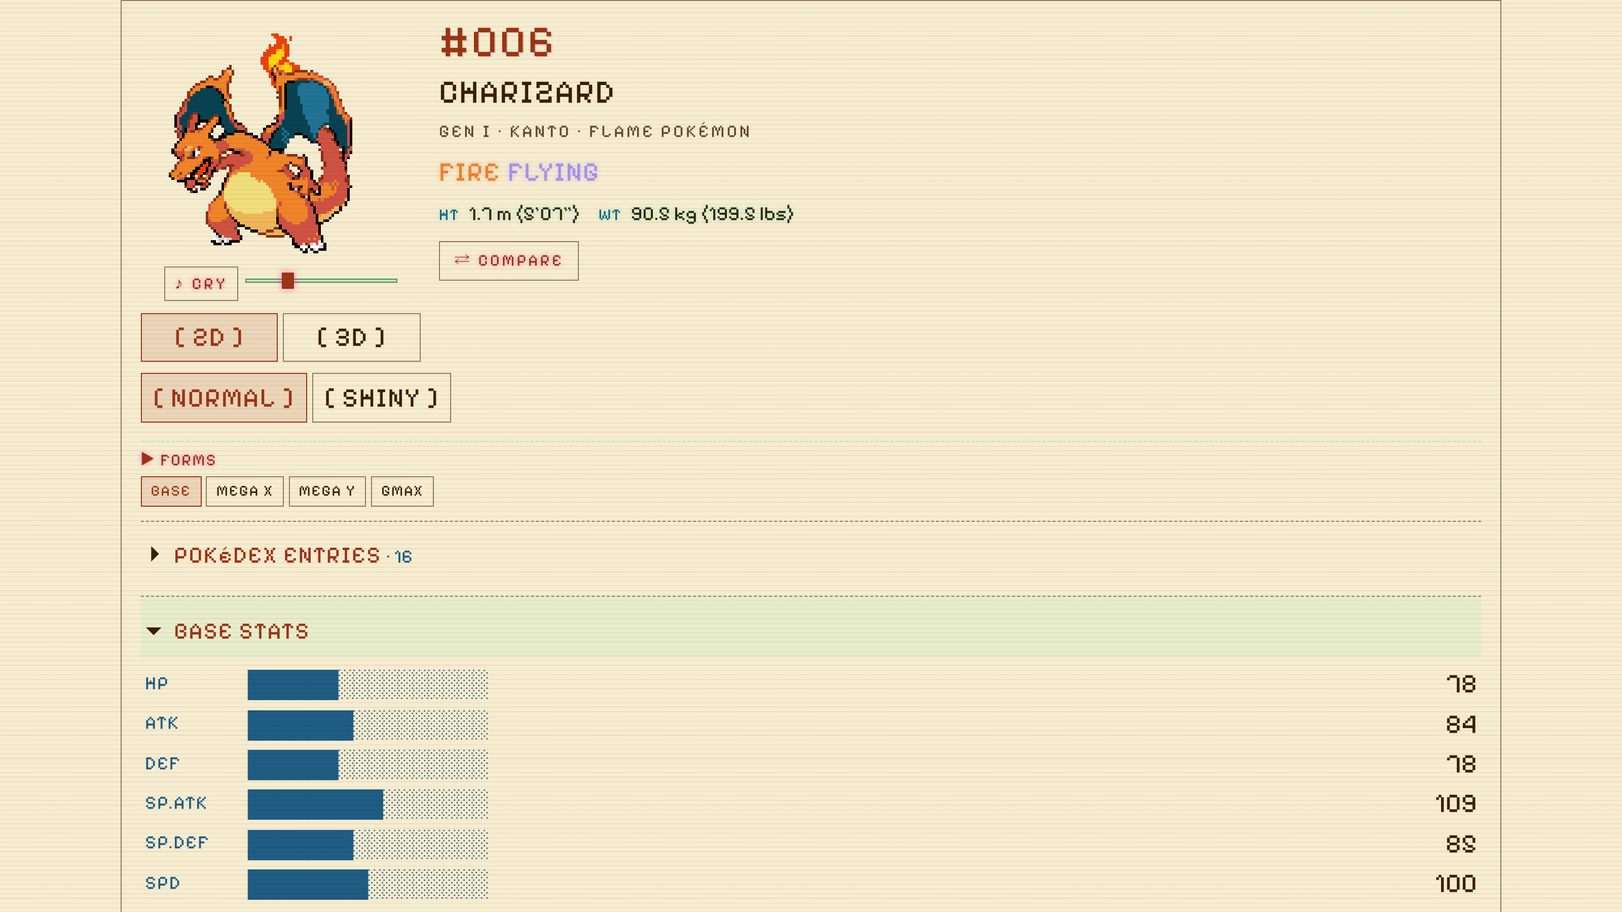
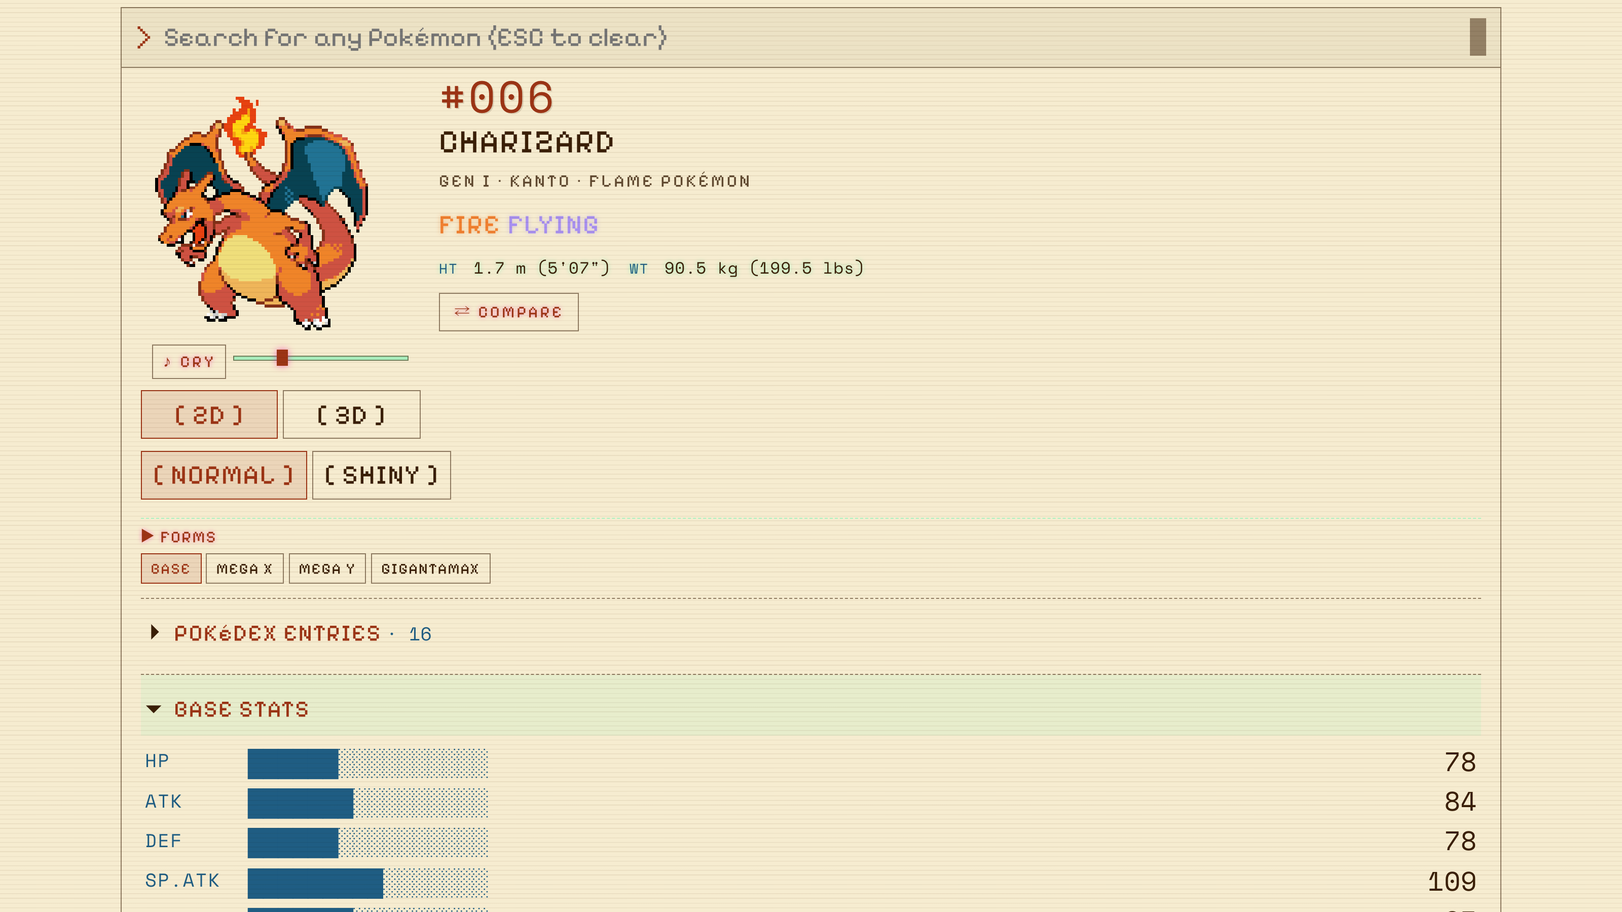
PMX: Refresh the README and add the code rules to `CLAUDE.md` (#9)
* PMX: Bring the README's feature list in line with the app

- the Trainers and Teams tabs and the card's "How to obtain" section had
  no mention anywhere — the intro still described a Pokédex only
- the species count said 1,022 — PokeAPI's `/pokemon-species` reports
  1,025, and the dex status line shows `1025 / 1025 entries`
- the share link was documented as `?p=charizard`; it copies the current
  URL, now `/pokedex/charizard`, and `HomeRedirect` keeps old links alive
- page sizes read 30/60/120/all — `PAGE_SIZE_OPTIONS` is 25/50/100/200/all
- the sprite bullets described a flat 2D default, official-artwork
  shinies, and Pokémon HOME fallbacks — `cardSprites` animates both views,
  keeps official artwork as the last 3D resort, and has no HOME source, so
  the HOME credit goes too
- the tech stack said Vite 6 (it is 8), named one of the two loaded fonts,
  and left out `wouter`
- the obtain data's PokemonDB and Bulbapedia sources get a data-source
  line and a credit, from the header of `scripts/build-obtain-data.mts`
- the screenshot steps failed as written — `bun scripts/screenshot.mjs`
  throws "Cannot find package 'playwright'" because it is not a
  dependency; `bun add --no-save playwright` fixes that without touching
  `package.json`

* PMX: Retake the README screenshots against the current UI

- all 7 were captured 2026-05-13, before the POKÉDEX / TRAINERS / TEAMS
  tabs, the card's back button, and the `GIGANTAMAX` form label existed
[…]

diff --git a/src/__tests__/PokemonCard.test.tsx b/src/__tests__/PokemonCard.test.tsx
@@ -166,12 +166,7 @@ describe('PokemonCard', () => {
     expect(screen.getAllByText('ghost').length).toBeGreaterThan(0);
   });
 
-  // Quarantined: the card's 2D default for Gen 6+ is now the animated Showdown
-  // GIF (constructed from id), not the fixture's `front_default`. These two
-  // assertions still describe the original sprite ladder, so they stay in the
-  // file as a pointer for whoever updates the sprite spec — they just don't run
-  // until then. See `cardSprites` in `sprites.ts`.
-  it.skip('renders the static flat pixel sprite by default (2D, Gen 6+)', () => {
+  it('renders the animated Showdown GIF by default (2D, Gen 6+)', () => {
     render(
       <PokemonCard
         pokemon={pokemon}
@@ -186,10 +181,13 @@ describe('PokemonCard', () => {
         onFormChange={() => {}}
       />,
     );
-    expect(screen.getByRole('img')).toHaveAttribute('src', 'normal.png');
+    expect(screen.getByRole('img', { name: 'dragapult' })).toHaveAttribute(
+      'src',
+      expect.stringContaining('other/showdown/887.gif'),
+    );
   });
 
-  it.skip('renders the static shiny sprite by default when shiny is true', () => {
+  it('renders the animated shiny Showdown GIF when shiny is true', () => {
     render(
       <PokemonCard
         pokemon={pokemon}
@@ -204,7 +202,10 @@ describe('PokemonCard', () => {
         onFormChange={() => {}}
       />,
     );
-    expect(screen.getByRole('img')).toHaveAttribute('src', 'shiny.png');
+    expect(screen.getByRole('img', { name: 'dragapult' })).toHaveAttribute(
+      'src',
+      expect.stringContaining('other/showdown/shiny/887.gif'),
+    );
   });
 
   it('renders the evolution chain', () => {

diff --git a/CLAUDE.md b/CLAUDE.md
@@ -1,79 +1,95 @@
-# Guardrails for this repo (CLAUDE.md, AGENTS.md)
+# CLAUDE.md
 
-Short, opinionated rules. When something here conflicts with a default behavior, **this file wins**.
+Pokemax is a retro CRT-styled Pokédex: a Vite + React 19 + TypeScript single-page app with wouter routing, deployed to GitHub Pages. Species, moves and sprites come live from PokeAPI, competitive sets from Smogon, and the how-to-obtain data is prebuilt into `public/obtain/`.
 
-## Git workflow
+## Workflow
 
-### Do
-- **Default to `main`.** Commit and push directly to `main` after every discrete change — that's still the path for ordinary work.
-- One logical change = one commit. Finish the change → `git add <specific files>` → `git commit` → `git push origin main` → move on.
-- **Branch and open a PR when the user asks for one.** Branch off `main`, keep one-logical-change-per-commit inside the branch, then `gh pr create --base main`.
-- Prefer one branch over several when the changes touch the same files — parallel branches that rewrite the same file just conflict.
-- Write commit messages that explain **why**, not just what.
-- Follow the `commit-format` skill (`.claude/skills/commit-format/SKILL.md`) for commit subject/body/backtick rules, including the zero-AI-attribution rule.
-- Follow the `create-pull-request` skill (`.claude/skills/create-pull-request/SKILL.md`) for every PR title and body — it owns the section order, bullet style, and the same zero-AI-attribution rule.
+- Do not commit anything until I tell you to. Finishing a change is not permission to commit it.
+- Do not push anything until I tell you to. Once I have told you to commit on a branch that already tracks a remote, push it in the same step, don't ask again.
+- Do not merge anything until I tell you to.
+- Do not create a PR until I tell you to.
 
-### Don't
-- Don't open a PR for routine work the user didn't ask to review — branches are permitted, not the default.
-- Don't bundle unrelated changes into one commit "to save time" — the user explicitly wants tight, change-per-commit history.
-- Don't pause to confirm the push each time. Standing authorization is granted for `git push origin main` in this repo.
-- Don't run `git push --force`, `git reset --hard`, or anything destructive without explicit per-action approval.
-- Don't append `Co-Authored-By: Claude` (or any AI/agent attribution) to commits. See the `commit-format` skill — zero AI mentions anywhere in the message.
+## Tooling
+
+- All scripts run through Bun (`bun install`, `bun run …`). Never invoke npm or yarn.
+- Pin every dependency to an exact version, with no `^` or `~`. The root `bunfig.toml` enforces this with `exact = true`. Workspace siblings are the one exception: they use `workspace:*`.
+- Run tests with `bun run test`, never bare `bun test`. The unit-tester skill explains why.
+- Tests are co-located: `lib/foo.ts` ↔ `lib/foo.test.ts`, `components/Foo/Foo.tsx` ↔ `components/Foo/Foo.test.tsx`.
 
 ## Imports
 
-### Do
-- Use the `@/` alias for anything under `src/` (e.g. `import { useTheme } from '@/hooks/useTheme'`).
-- Configured in `tsconfig.json`, `tsconfig.app.json`, and `vite.config.ts` (which Vitest also reads) — all three must stay in sync if the alias changes.
-
-### Don't
-- Don't use `../`-style relative imports across directories. Use `@/...` instead.
-- Don't introduce a second alias (`~/`, `#/`, etc.) — one alias is enough.
-
-## TypeScript
-
-### Do
-- Keep `strict`, `noUnusedLocals`, `noUnusedParameters`, `noFallthroughCasesInSwitch`, and `noUncheckedSideEffectImports` on. Fix the cause, not the lint.
-- Run `npx tsc -b --pretty false` before committing if you've touched types — silent green is the bar.
-- Reach for **type narrowing or type guards** to satisfy the checker. For platform-typed globals (e.g. `webkitAudioContext`), declare the real shape via an ambient declaration in `src/vite-env.d.ts` instead of asserting it at the call site.
-
-### Don't
-- Don't use TypeScript type assertions of **any** kind — no `as SomeType`, no `as unknown as`, no `as any`, no `// @ts-ignore`. Narrow the type, write a type guard, or declare the correct type. Assertions are banned outright; `as const` (a const assertion, not a cast) is fine.
-- Don't disable strict flags.
+- Never use relative paths, not even for same-directory siblings or co-located style sheets. `@/*` maps to `src/`; it is configured in `tsconfig.json`, `tsconfig.app.json` and `vite.config.ts`, which must stay in sync.
+- SCSS `@use` follows the same rule: `@use "@/styles/mixins" as *`.
 
 ## Tests
 
-### Do
-- Use `bun run test` (vitest). New components/hooks get a minimal test for default state + the main interactions. **Never** invoke `bun test` directly — that runs bun's built-in test runner, which this project does not use.
-- Use `@testing-library/react` patterns: query by role/label, drive with `userEvent`.
-- Put tests in `src/__tests__/<name>.test.{ts,tsx}`.
+- Tests live in `src/__tests__/<name>.test.{ts,tsx}`. New components and hooks get a minimal test for their default state and main interactions.
+- Use `@testing-library/react` patterns: query by role or label, drive with `userEvent`. Don't assert on CSS class names or DOM structure when a role or label query works.
+- Don't mock `localStorage` per test. `src/__tests__/setup.ts` installs an in-memory shim, because Node 22+ ships an empty experimental `localStorage` that shadows jsdom's.
 
-### Don't
-- Don't mock `localStorage` per test — `src/__tests__/setup.ts` already installs a working in-memory shim because Node 22+ ships an empty experimental `localStorage` that shadows jsdom's.
-- Don't assert on internal CSS class names or DOM structure when a role/label query works.
-- Don't "fix" the two known pre-existing `PokemonCard` sprite-source test failures unless that's the actual task — they predate recent changes and aren't owned by drive-by edits.
+## TypeScript
 
-## UI / styling
+- Always use type aliases. Never use interfaces, including in `declare global` augmentations.
+- Use type guards wherever possible, and unit test every type guard function.
+- Never use `any`. Prefer type narrowing or type guards.
+- Never cast types, and never double cast (`as any as string`).
+- If a type can't be inferred and narrowing isn't an option, use `unknown`.
+- Keep `strict`, `noUnusedLocals`, `noUnusedParameters`, `noFallthroughCasesInSwitch` and `noUncheckedSideEffectImports` on. Fix the cause, not the lint.
+- For platform-typed globals (e.g. `webkitAudioContext`), declare the real shape in `src/vite-env.d.ts` instead of working around it at the call site.
 
-### Do
-- Keep the CRT phosphor aesthetic: `--primary` (phosphor green), `--accent` (magenta), `--tertiary` (cyan), `--dim`, all defined at the top of `src/styles/crt.css`. Pull from these variables, don't hardcode hex.
-- Two fonts are loaded in `index.html`: `Pixelify Sans` (the global retro display font — logo, names, headers; fallback chain `'Pixelify Sans', 'VT323', 'Courier New', monospace`) and `Space Mono` (the `--font-body` used for small body text and stat numbers where pixel-art legibility suffers). `VT323` is only a fallback name, not a loaded import.
-- Persist user preferences in `localStorage` under the `pokemax.*` namespace (`pokemax.theme`, `pokemax.view`, `pokemax.pageSize`, etc.).
-- Light theme overrides live near the bottom of `crt.css` under `:root[data-theme="light"] ...`. Add matching overrides when introducing new tinted elements.
+## SCSS/CSS
 
-### Don't
-- Don't introduce a CSS framework (Tailwind, etc.). The whole UI is hand-rolled CSS in one file by design.
-- Don't add new font imports without dropping an old one — keep the network cost flat.
-- Don't break the `html { zoom: 1.15 }` baseline at the top of `crt.css` — it's the global "make text legible" lever.
+- Use SCSS modules (`*.module.scss`) for component styles.
+- Use the global stylesheet (`src/styles/globals.scss`) only for design tokens and true typographic primitives.
+- Layout is container-driven. The container sets width and height and positions its children, so a child moved to a different container can lay out differently there.
+- Prefer CSS grid with `gap` for spacing. Avoid margins for spacing. Flex is the second choice.
+- Avoid plain divs, meaning divs with no class or id.
+- Always use the token values from `src/styles/globals.scss` for font sizes, colors, padding, margin, gap and border radius.
+
+## UI
+
+- Keep the CRT phosphor aesthetic: `--primary` (phosphor green), `--accent` (magenta), `--tertiary` (cyan) and `--dim`, currently defined at the top of `src/styles/crt.css`. Never hardcode hex.
+- Two fonts load in `index.html`: `Pixelify Sans`, the retro display font for the logo, names and headers, and `Space Mono` (`--font-body`), for small body text and stat numbers where pixel art loses legibility. `VT323` is only a fallback name. Don't add a font import without dropping one.
+- Light theme overrides go under `:root[data-theme="light"]`. Add a matching override when introducing a new tinted element.
+- Don't break the `html { zoom: 1.15 }` baseline at the top of `crt.css`. It is the global "make text legible" lever.
+- Persist user preferences in `localStorage` under the `pokemax.*` namespace (`pokemax.theme`, `pokemax.view`, `pokemax.pageSize`, …).
+- Don't introduce a CSS framework (Tailwind, etc.).
+
+## Code style
+
+- Prefer immutable data structures and operations.
+- Prefer `reduce` over `for` loops. Never use `for/in` or `for/of`; use `Array.prototype` methods (`map`, `filter`, `reduce`, `flatMap`).
+- Prefer double-bang (`!!value`) for boolean conversion.
+- Prefer short-circuit `&&` over a ternary whose else branch is `null` or `undefined`, especially in JSX.
+  - Do: `{isActive && <Badge />}`. Don't: `{isActive ? <Badge /> : null}`.
+  - Make the condition a real boolean (`!!count && …`) so a bare `0` never renders.
+- Prefer optional chaining (`?.`), and always pair it with nullish coalescing (`??`) to supply a fallback.
+- Prefer a single object parameter over positional ones, so argument order doesn't matter. Do: `doSomething({ foo, bar })`. Don't: `doSomething(foo, bar)`.
+
+## Accessibility (WCAG AA)
+
+- Use semantic HTML before ARIA: a native `button`, never a clickable `div`. Add ARIA only to fill a gap, and never override a native role.
+- Everything must be operable by keyboard, with a visible `:focus-visible` style. Modals, drawers and menus move focus in, trap it, restore it to the trigger on close, and close on `Escape`.
+- Every control needs an accessible name:
+  - form fields get a `label`, with `aria-describedby` for hints and errors;
+  - icon-only buttons get an `aria-label`;
+  - decorative icons get `aria-hidden="true"`, and decorative images `alt=""`.
+- Announce async changes (toasts, status, form errors) with `aria-live` or `role="alert"`.
+- Text needs at least 4.5:1 contrast, and large text and UI elements 3:1, measured against the `globals.scss` tokens. Never signal meaning by color alone.
+- Respect `prefers-reduced-motion` and size with `rem`. Each page has one `h1` with no skipped heading levels, and the document sets `lang`.
+
+## Specs and plans
+
+- Design specs and implementation plans live in `docs/superpowers/specs/` and `docs/superpowers/plans/`. Check them before extending an existing feature.
 
 ## Scope discipline
 
-### Do
-- Touch only what the task needs. Land it. Push. Move on.
-- If a bug fix surfaces an adjacent issue, mention it in the response, don't silently bundle the fix.
-
-### Don't
+- Touch only what the task needs. If a fix surfaces an adjacent issue, mention it in the response; don't silently bundle the fix.
 - Don't refactor surrounding code while doing a feature change.
-- Don't add "future-proof" abstractions (interfaces, registries, dependency-injection helpers) for code that has one caller.
-- Don't add comments that just describe what the code already says. Comments are for the *why* — a hidden invariant, an external constraint, a workaround.
+- Don't add "future-proof" abstractions (registries, dependency-injection helpers) for code that has one caller.
+- Don't add comments that just describe what the code already says. Comments are for the *why*: a hidden invariant, an external constraint, a workaround.
 - Don't generate documentation files (`*.md`, `README` additions) unless the task explicitly asks for it. This file is the exception.
+
+## Creating PRs
+
+- When creating a PR, always run the /thermo-nuclear-code-quality-review skill, then apply all of suggestions, commit as a separate commit and push to origin, then open PR

diff --git a/README.md b/README.md
@@ -1,6 +1,6 @@
 # pokemax
 
-A retro CRT-terminal-styled Pokédex for the whole main series — **all 1,022 species across Gen I → IX**. Browse the dex as a sprite grid, filter by generation or type, page through results, and inspect every stat, ability, evolution, form and move — plus the canonical competitive build sourced live from Smogon.
+A retro CRT-terminal-styled Pokédex for the whole main series — **all 1,025 species across Gen I → IX**. Browse the dex as a sprite grid, filter by generation or type, page through results, and inspect every stat, ability, evolution, form and move — plus where to catch it in each game and the canonical competitive build sourced live from Smogon. Two more tabs cover the games themselves: gym leaders, Elite Four and champions with a counter team for each fight, and a curated playthrough team per game.
 
 🔗 **Live:** [codebend3r.github.io/pokemax](https://codebend3r.github.io/pokemax/)
 
@@ -24,7 +24,7 @@ Click any combination of type chips to find every species that matches **all** s
 
 ### Pokémon card
 
-Click any cell (or hit Enter in the search bar) to open the full card: official artwork with `2D ⇄ 3D` toggle, `NORMAL ⇄ SHINY` toggle, click-to-play cry with volume slider, color-coded type chips, height/weight, alternate forms picker (Mega X/Y, Gmax, regional variants, battle forms), Pokédex flavor text grouped by version, base stats with bar graphs, abilities (hidden ability marked), full branching evolution chain, every move learned in that generation's canonical version pair grouped by learn method, and a Smogon competitive build with tier, item, ability, nature, EVs and moves.
+Click any cell (or hit Enter in the search bar) to open the full card: animated sprite with `2D ⇄ 3D` toggle, `NORMAL ⇄ SHINY` toggle, click-to-play cry with volume slider, color-coded type chips, height/weight, alternate forms picker (Mega X/Y, Gmax, regional variants, battle forms), Pokédex flavor text grouped by version, base stats with bar graphs, abilities (hidden ability marked), full branching evolution chain, every move learned in that generation's canonical version pair grouped by learn method, how to obtain it in every game, and a Smogon competitive build with tier, item, ability, nature, EVs and moves.
 
 ![Pokémon card](docs/screenshots/desktop-card.png)
 
@@ -57,7 +57,7 @@ The whole layout is responsive. Card top stacks, stat bars compress, type chips 
 - **Multi-type filter** — pick one or more of the 18 types; cells are shown only if they match **every** selected type
 - **Alt-form chips** — opt-in fetches for `MEGA / PRIMAL`, `GIGANTAMAX`, `REGIONAL`, and other `BATTLE FORMS`; forms render inline next to their base species
 - **Live search** — typing filters the visible grid in real time; Enter jumps to the first match; Esc clears
-- **Pagination + view mode** — choose page size (30/60/120/all) and toggle between sprite-grid and compact list view; settings persist
+- **Pagination + view mode** — choose page size (25/50/100/200/all) and toggle between sprite-grid and compact list view; settings persist
 - **Hover-animated sprites** — flat 2D pixel sprite by default; on hover, the animated Black/White or Showdown GIF plays. Only the hovered cell animates.
 - **Pokémon card** with collapsible sections:
   - All six base stats as bar graphs
@@ -65,16 +65,19 @@ The whole layout is responsive. Card top stacks, stat bars compress, type chips 
   - Branching evolution chain with conditions (Toxel → Toxtricity Amped/Low Key, Applin → Flapple/Appletun, eevee → 8 evolutions, etc.) — every node clickable to jump
   - Pokédex flavor text deduplicated and grouped by version
   - Every move available in that generation's canonical version pair, grouped by learn method
+  - How to obtain it in every game — wild encounters with levels and rates, gifts, trades, evolutions, plus egg groups and hatch steps
   - Smogon competitive build (tier, item, ability, nature, EVs, moves) — fetched live from `pkmn.github.io`, generation-aware
   - In-card **form switcher** (e.g. Charizard ⇆ Mega X ⇆ Mega Y ⇆ Gmax)
   - **Compare** button to diff base stats against another species side-by-side
 - **Click for details** — moves, abilities, items, natures and types are all clickable; each expands inline
-- **2D / 3D sprite toggle** — flat pixel art ↔ animated Showdown rendering (with Pokémon HOME / official-artwork fallbacks)
-- **Shiny toggle** — official-artwork shiny variant with graceful fallback to pixel shiny
+- **2D / 3D sprite toggle** — both views are animated (Black/White and Showdown GIFs); official artwork appears only for the few forms with no animated sprite, and the 2D toggle hides when a form has no pixel animation
+- **Shiny toggle** — the shiny versions of the same animated sprites
 - **Click-to-play cry** — every Pokémon's cry plays from the card sprite, with a volume slider
 - **Built-in chiptune player** — Web Audio synthesizes a small NES-style playlist; play/pause/skip and volume controls in the header
 - **Two themes** — dark phosphor CRT and a light parchment theme; persisted to `localStorage`
-- **Share button** — copies a deep-link URL like `?p=charizard` that opens the app directly to that card
+- **Share button** — copies a deep link like `/pokedex/charizard` that opens the app directly to that card (old `?p=charizard` links still redirect)
+- **Trainers tab** — gym leaders, Elite Four, champions, rivals and team bosses for each game, with their full rosters (moves, items, abilities, natures) and the best counter team obtainable by that fight; filter by game, class, name or a Pokémon on the roster
+- **Teams tab** — a curated six-Pokémon playthrough team for each game, with each pick's role and why it's there
 - **CRT aesthetic** — Pixelify Sans, scanline overlay, power-on flash, blinking cursor, color-coded type chips
 - **Mobile responsive** — single-column card, compressed stats, wrapping chips
 - **Accessible** — keyboard navigation, ARIA roles, focus rings on tab-only
@@ -83,17 +86,19 @@ The whole layout is responsive. Card top stacks, stat bars compress, type chips 
 
 ## Tech stack
 
-- **Vite 6** + **React 19** + **TypeScript** (strict)
+- **Vite 8** + **React 19** + **TypeScript** (strict)
+- **wouter** — routing for the Pokédex, Trainers and Teams tabs and the deep links
 - **Plain CSS** — no Tailwind, no styled-components; one `crt.css` file with CSS variables and media queries
 - **Native `fetch`** — no Axios or similar
 - **Web Audio API** — chiptune synthesis, no audio files in the bundle
 - **Vitest** + **@testing-library/react** + **jsdom** for tests
-- **Pixelify Sans** Google Font
-- **oxlint + oxfmt + Husky pre-commit** keep the tree lint-clean
+- **Pixelify Sans** + **Space Mono** Google Fonts — the pixel display face, and a legible mono for small body text and stat numbers
+- **oxlint + oxfmt + lefthook pre-commit** keep the tree lint-clean
 - **Data sources:**
   - [PokeAPI](https://pokeapi.co) — species, stats, abilities, evolutions, moves, sprites, cries
   - [Smogon sets via pkmn.github.io](https://pkmn.github.io) — competitive builds per generation
   - [PokeAPI sprites repo](https://github.com/PokeAPI/sprites) — pixel + animated Black/White + Showdown GIFs + official artwork
+  - [PokemonDB](https://pokemondb.net) + [Bulbapedia](https://bulbapedia.bulbagarden.net) — where-to-find and in-game trades, prebuilt with PokeAPI encounters into `public/obtain/` by `scripts/build-obtain-data.mts`
 
 ---
 
@@ -165,6 +170,7 @@ scripts/build-obtain-data.mts  # builds public/obtain/{id}.json
 
 ```bash
 bun run dev &                                    # in one shell
+bun add --no-save playwright                     # not a project dependency
 bunx playwright install chromium                 # one-time
 bun scripts/screenshot.mjs                       # writes to docs/screenshots/
 ```
@@ -177,6 +183,7 @@ The script clips to the viewport (no `fullPage: true`) so README images stay lan
 
 - **PokeAPI** for the data backend (species, moves, abilities, sprites, cries)
 - **Smogon University** + **pkmn.cc** for competitive analyses per generation
-- **Pokémon HOME** team for the 3D renders
 - **Pokémon Showdown** for the animated pixel sprites
+- **PokemonDB** + **Bulbapedia** for where-to-find and in-game trade data
 - **Pixelify Sans** font by Stefie Justprince
+- **Space Mono** font by Colophon Foundry

diff --git a/.claude/skills/create-pull-request/SKILL.md b/.claude/skills/create-pull-request/SKILL.md
@@ -50,7 +50,7 @@ The body is these parts, in this order:
 
 Report what was run, not what should pass:
 
-- `bun run system-check` green — `format:check`, `tsc -b`, `oxlint`, 143 tests, `vite build`
+- `bun run system-check` green — `format:check`, `typecheck`, `oxlint`, 143 tests, `vite build`
 - Test count before → after
 - Any dataset or generated-file impact, including "none"
 

diff --git a/AGENTS.md b/AGENTS.md
@@ -1,1 +1,3 @@
-CLAUDE.md
+# AGENTS.md
+
+Read [`CLAUDE.md`](CLAUDE.md) and follow it. It holds every instruction for working in this repo.
